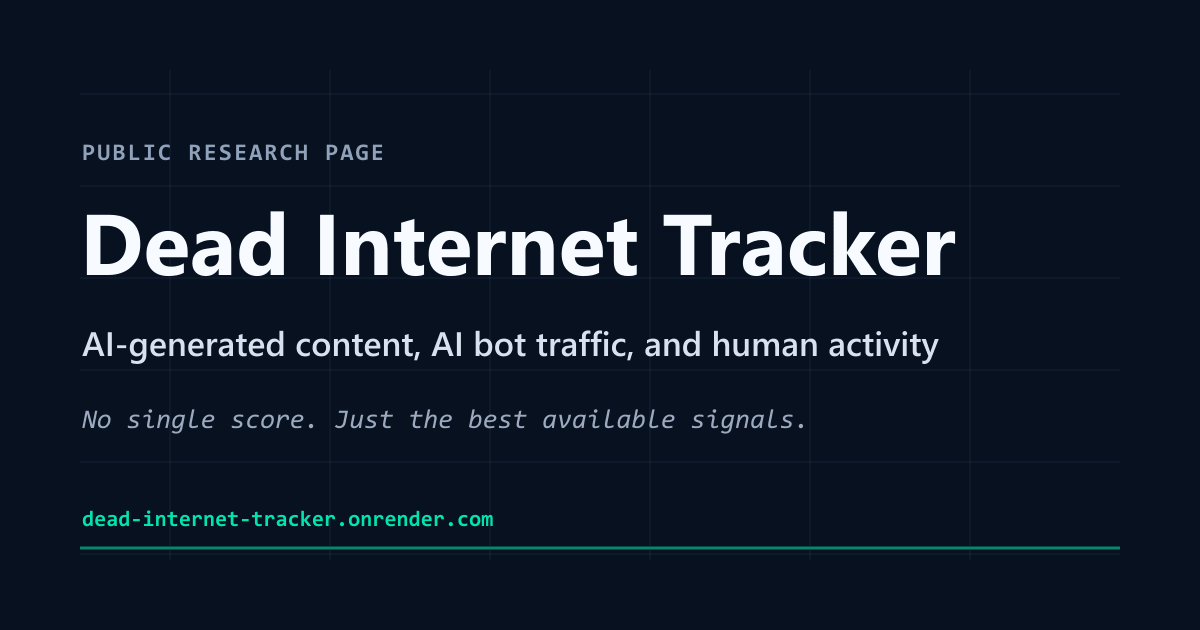
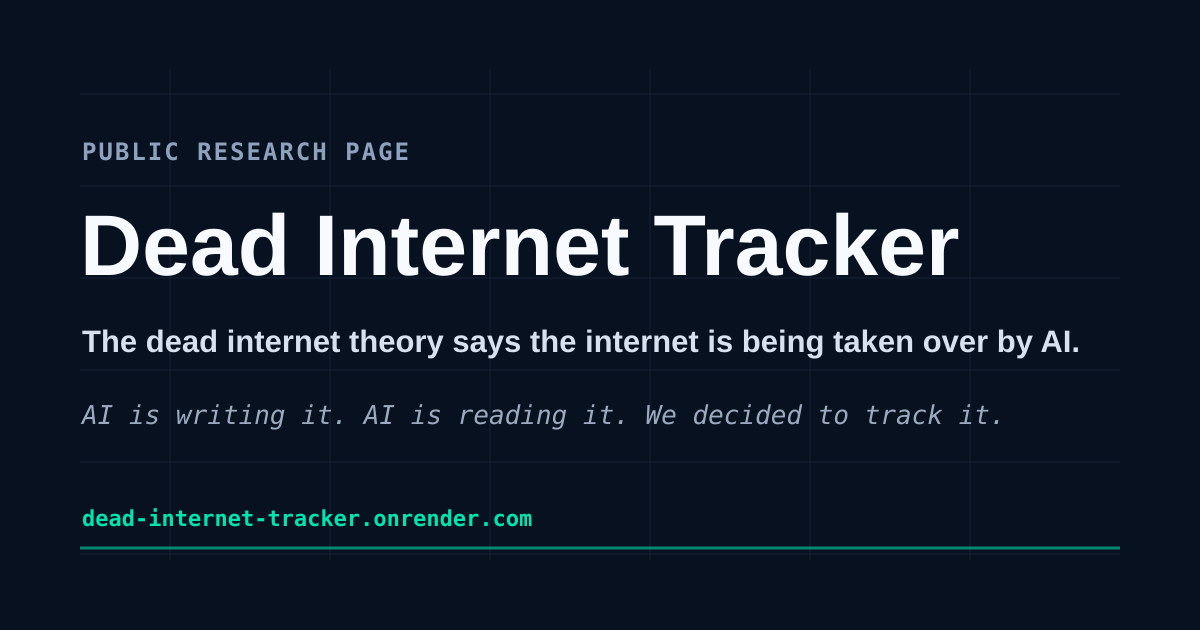
Simplify SEO and sharing metadata

diff --git a/index.html b/index.html
@@ -3,35 +3,29 @@
 <head>
   <meta charset="UTF-8">
   <meta name="viewport" content="width=device-width, initial-scale=1.0">
-  <title>Dead Internet Tracker | AI Content, AI Bot Traffic & Human Web Activity</title>
-  <meta name="description" content="Dead Internet Tracker is a one-page static research project tracking public signals behind the dead internet theory: AI-generated content, AI bot traffic, bot automation, and human activity on the open web.">
-  <meta name="robots" content="index, follow, max-image-preview:large">
-  <meta name="googlebot" content="index, follow, max-snippet:-1, max-image-preview:large">
-  <meta name="bingbot" content="index, follow, max-snippet:-1, max-image-preview:large">
-  <meta name="keywords" content="dead internet theory, dead internet, AI-generated content, AI content detection, AI bot traffic, internet bot traffic, bot automation, Wikipedia editor activity, Stack Overflow questions, human web activity">
-  <meta name="author" content="Dead Internet Tracker">
+  <title>Dead Internet Tracker</title>
+  <meta name="description" content="The dead internet theory says the internet is being taken over by AI. AI is writing it. AI is reading it. We decided to track it.">
+  <meta name="robots" content="max-image-preview:large">
   <meta name="theme-color" content="#08111f">
   <meta name="color-scheme" content="dark">
   <link rel="canonical" href="https://dead-internet-tracker.onrender.com/">
-  <link rel="sitemap" type="application/xml" href="https://dead-internet-tracker.onrender.com/sitemap.xml">
   <link rel="alternate" type="text/markdown" title="LLM-readable summary" href="https://dead-internet-tracker.onrender.com/llms.txt">
   <link rel="alternate" type="application/json" title="Machine-readable chart data" href="https://dead-internet-tracker.onrender.com/data/dashboard_readable.json">
   <meta property="og:type" content="website">
   <meta property="og:site_name" content="Dead Internet Tracker">
   <meta property="og:title" content="Dead Internet Tracker">
-  <meta property="og:description" content="A static research project tracking AI-generated content, AI bot traffic, bot automation, and human activity on the open web.">
+  <meta property="og:description" content="The dead internet theory says the internet is being taken over by AI. AI is writing it. AI is reading it. We decided to track it.">
   <meta property="og:url" content="https://dead-internet-tracker.onrender.com/">
   <meta property="og:image" content="https://dead-internet-tracker.onrender.com/social-preview.png">
-  <meta property="og:image:secure_url" content="https://dead-internet-tracker.onrender.com/social-preview.png">
   <meta property="og:image:type" content="image/png">
   <meta property="og:image:width" content="1200">
   <meta property="og:image:height" content="630">
-  <meta property="og:image:alt" content="Dead Internet Tracker: public signals on AI-generated content, AI bot traffic, bot automation, and human activity.">
+  <meta property="og:image:alt" content="Dead Internet Tracker. The dead internet theory says the internet is being taken over by AI.">
   <meta name="twitter:card" content="summary_large_image">
   <meta name="twitter:title" content="Dead Internet Tracker">
-  <meta name="twitter:description" content="Track public signals behind the dead internet theory: AI-generated content, AI bot traffic, bot automation, and human activity.">
+  <meta name="twitter:description" content="The dead internet theory says the internet is being taken over by AI. AI is writing it. AI is reading it. We decided to track it.">
   <meta name="twitter:image" content="https://dead-internet-tracker.onrender.com/social-preview.png">
-  <meta name="twitter:image:alt" content="Dead Internet Tracker: public signals on AI-generated content, AI bot traffic, bot automation, and human activity.">
+  <meta name="twitter:image:alt" content="Dead Internet Tracker. The dead internet theory says the internet is being taken over by AI.">
   <link rel="icon" type="image/svg+xml" href="https://dead-internet-tracker.onrender.com/favicon.svg">
   <link rel="manifest" href="https://dead-internet-tracker.onrender.com/site.webmanifest">
   <link rel="preconnect" href="https://fonts.googleapis.com">
@@ -42,173 +36,7 @@
       "@context": "https://schema.org",
       "@type": "WebSite",
       "name": "Dead Internet Tracker",
-      "url": "https://dead-internet-tracker.onrender.com/",
-      "description": "A one-page static research project tracking public signals related to the dead internet theory.",
-      "inLanguage": "en",
-      "publisher": {
-        "@type": "Organization",
-        "name": "Dottie AI Studio",
-        "url": "https://dottieaistudio.com.au/"
-      },
-      "keywords": [
-        "dead internet theory",
-        "AI-generated content",
-        "AI bot traffic",
-        "bot automation",
-        "human web activity"
-      ],
-      "about": [
-        "dead internet theory",
-        "AI-generated content",
-        "AI bot traffic",
-        "bot automation",
-        "human activity on the public web"
-      ]
-    }
-  </script>
-  <script type="application/ld+json">
-    {
-      "@context": "https://schema.org",
-      "@type": "WebPage",
-      "name": "Dead Internet Tracker",
-      "url": "https://dead-internet-tracker.onrender.com/",
-      "description": "A one-page static research project tracking public signals behind the dead internet theory: AI-generated content, AI bot traffic, bot automation, and human activity on the open web.",
-      "isPartOf": {
-        "@type": "WebSite",
-        "name": "Dead Internet Tracker",
-        "url": "https://dead-internet-tracker.onrender.com/"
-      },
-      "inLanguage": "en",
-      "dateModified": "2026-05-11",
-      "publisher": {
-        "@type": "Organization",
-        "name": "Dottie AI Studio",
-        "url": "https://dottieaistudio.com.au/"
-      },
-      "keywords": [
-        "dead internet theory",
-        "AI-generated content",
-        "AI bot traffic",
-        "bot automation",
-        "Wikipedia editor activity",
-        "Stack Overflow question activity"
-      ],
-      "mainEntity": {
-        "@id": "https://dead-internet-tracker.onrender.com/#dataset"
-      },
-      "about": [
-        "dead internet theory",
-        "AI-generated content",
-        "AI bot traffic",
-        "human activity on the public web"
-      ]
-    }
-  </script>
-  <script type="application/ld+json">
-    {
-      "@context": "https://schema.org",
-      "@type": "WebApplication",
-      "name": "Dead Internet Tracker",
-      "url": "https://dead-internet-tracker.onrender.com/",
-      "applicationCategory": "DataVisualizationApplication",
-      "operatingSystem": "Any",
-      "description": "A one-page static research project tracking public signals related to the dead internet theory, including AI-generated content estimates, AI bot traffic, bot automation, Wikipedia editor activity, and Stack Overflow question activity.",
-      "keywords": [
-        "dead internet theory",
-        "dead internet",
-        "AI-generated content",
-        "AI bot traffic",
-        "bot automation",
-        "internet bot traffic"
-      ],
-      "creator": {
-        "@type": "Organization",
-        "name": "Dottie AI Studio",
-        "url": "https://dottieaistudio.com.au/"
-      },
-      "isAccessibleForFree": true
-    }
-  </script>
-  <script type="application/ld+json">
-    {
-      "@context": "https://schema.org",
-      "@type": "Dataset",
-      "@id": "https://dead-internet-tracker.onrender.com/#dataset",
-      "name": "Dead Internet Tracker public signal snapshots",
-      "url": "https://dead-internet-tracker.onrender.com/",
-      "description": "Small local snapshots used by Dead Internet Tracker to compare public signals related to the dead internet theory: AI-generated content, AI bot traffic, bot automation, and human activity on the open web.",
-      "dateModified": "2026-04-30",
-      "creator": {
-        "@type": "Organization",
-        "name": "Dottie AI Studio",
-        "url": "https://dottieaistudio.com.au/"
-      },
-      "publisher": {
-        "@type": "Organization",
-        "name": "Dottie AI Studio",
-        "url": "https://dottieaistudio.com.au/"
-      },
-      "keywords": [
-        "dead internet theory",
-        "AI-generated content estimates",
-        "AI bot traffic",
-        "bot automation",
-        "Wikipedia editor activity",
-        "Stack Overflow question volume",
-        "human activity on the public web"
-      ],
-      "temporalCoverage": "2020/2026",
-      "isAccessibleForFree": true,
-      "measurementTechnique": [
-        "Cloudflare Radar bot share and bot category time series",
-        "Wikimedia editor analytics",
-        "Stack Exchange API monthly question counts",
-        "Curated recurring public-report estimates"
-      ],
-      "variableMeasured": [
-        "AI-generated content estimates",
-        "AI bot share of traffic",
-        "Wikipedia editor activity",
-        "Stack Overflow question activity"
-      ],
-      "distribution": [
-        {
-          "@type": "DataDownload",
-          "name": "Machine-readable normalized chart data",
-          "encodingFormat": "application/json",
-          "contentUrl": "https://dead-internet-tracker.onrender.com/data/dashboard_readable.json"
-        },
-        {
-          "@type": "DataDownload",
-          "name": "Cloudflare AI bot traffic snapshot",
-          "encodingFormat": "application/json",
-          "contentUrl": "https://dead-internet-tracker.onrender.com/data/cloudflare/cloudflare.json"
-        },
-        {
-          "@type": "DataDownload",
-          "name": "Wikipedia activity snapshot",
-          "encodingFormat": "application/json",
-          "contentUrl": "https://dead-internet-tracker.onrender.com/data/wikipedia/wikipedia.json"
-        },
-        {
-          "@type": "DataDownload",
-          "name": "Stack Overflow activity snapshot",
-          "encodingFormat": "application/json",
-          "contentUrl": "https://dead-internet-tracker.onrender.com/data/stackoverflow/stackoverflow.json"
-        },
-        {
-          "@type": "DataDownload",
-          "name": "Imperva traffic snapshots",
-          "encodingFormat": "application/json",
-          "contentUrl": "https://dead-internet-tracker.onrender.com/data/imperva/imperva.json"
-        },
-        {
-          "@type": "DataDownload",
-          "name": "AI content meta-review snapshot",
-          "encodingFormat": "application/json",
-          "contentUrl": "https://dead-internet-tracker.onrender.com/data/ai-content-meta-review/ai_content_meta_review.json"
-        }
-      ]
+      "url": "https://dead-internet-tracker.onrender.com/"
     }
   </script>
   <style>